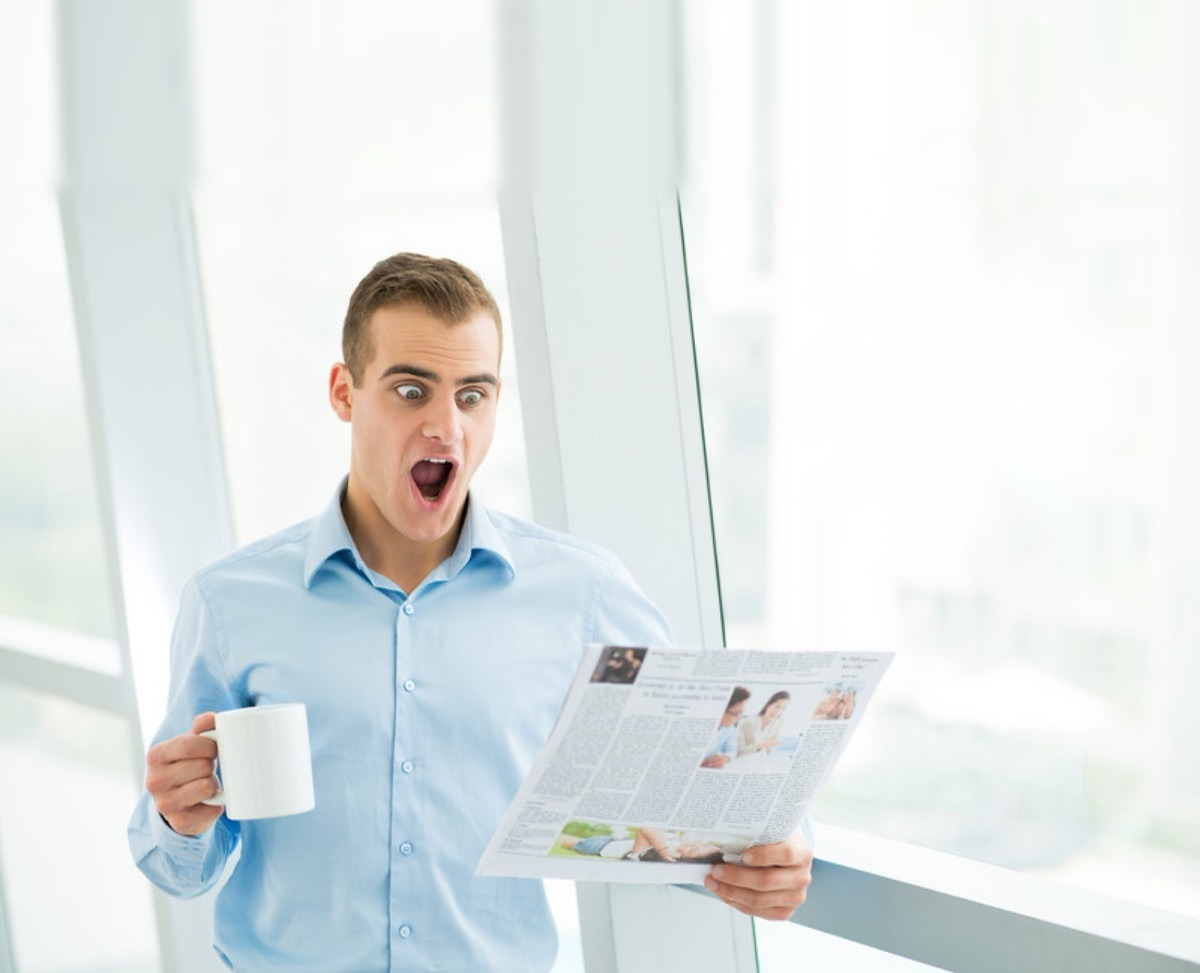
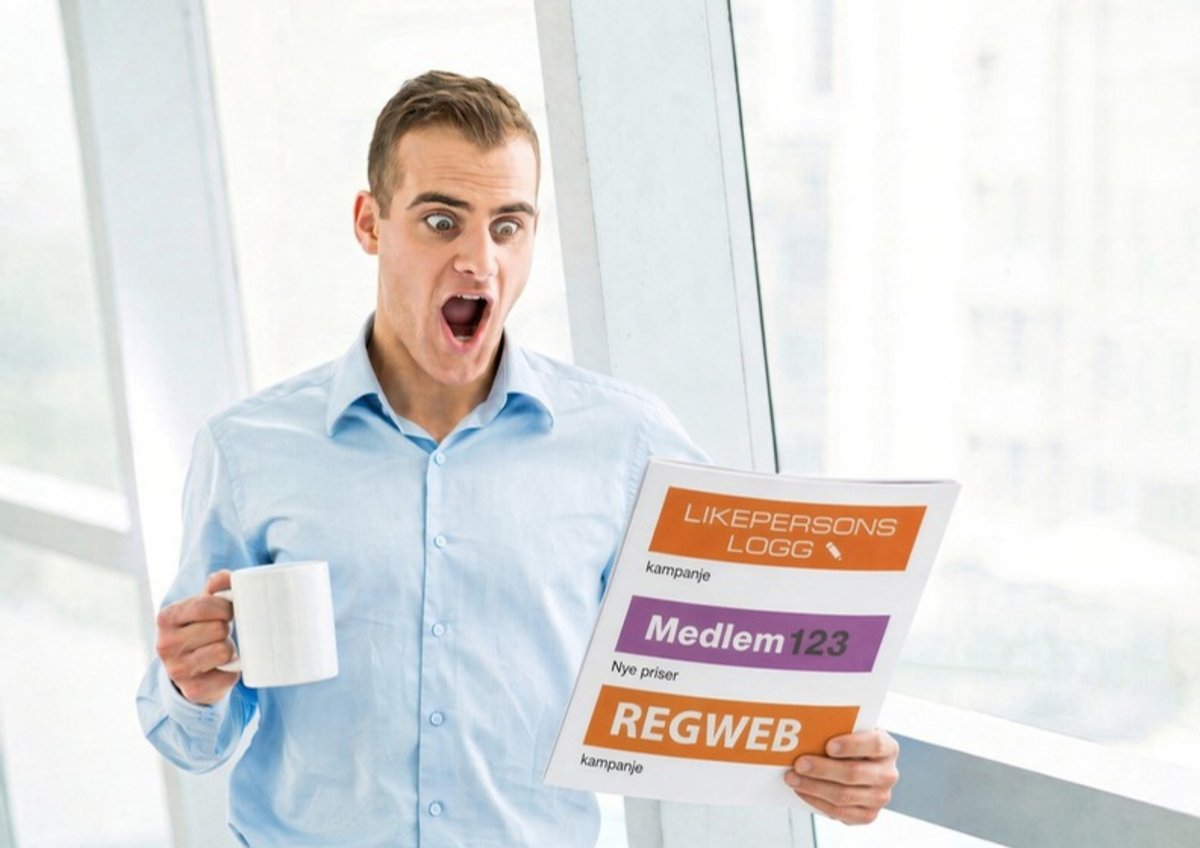
Update homepage hero image with product-branded newspaper (Regweb, Medlem123, Likepersonslogg)

diff --git a/index.html b/index.html
@@ -410,7 +410,7 @@
                             <a href="#kampanjer" class="discount-badge masthead-badge-link">Kampanjer</a>
                             <span class="price-badge">Nye og bedre priser</span>
                         </div>
-                        <img src="assets/img/hero-bg-1200.jpg" srcset="assets/img/hero-bg-800.jpg 800w, assets/img/hero-bg-1200.jpg 1200w, assets/img/hero-bg-1800.jpg 1800w, assets/img/hero-bg.jpg 2400w" sizes="(max-width: 900px) 100vw, 50vw" alt="Mann på kontoret, overrasket, med kaffekopp og avis i hendene" fetchpriority="high" />
+                        <img src="assets/img/hero-bg-1200.jpg" srcset="assets/img/hero-bg-800.jpg 800w, assets/img/hero-bg-1200.jpg 1200w, assets/img/hero-bg-1800.jpg 1800w, assets/img/hero-bg.jpg 2400w" sizes="(max-width: 900px) 100vw, 50vw" alt="Mann på kontoret, overrasket, med kaffekopp og en avis som viser kampanjer på Regweb, Medlem123 og Likepersonslogg" fetchpriority="high" />
                     </div>
                 </div>
             </div>
